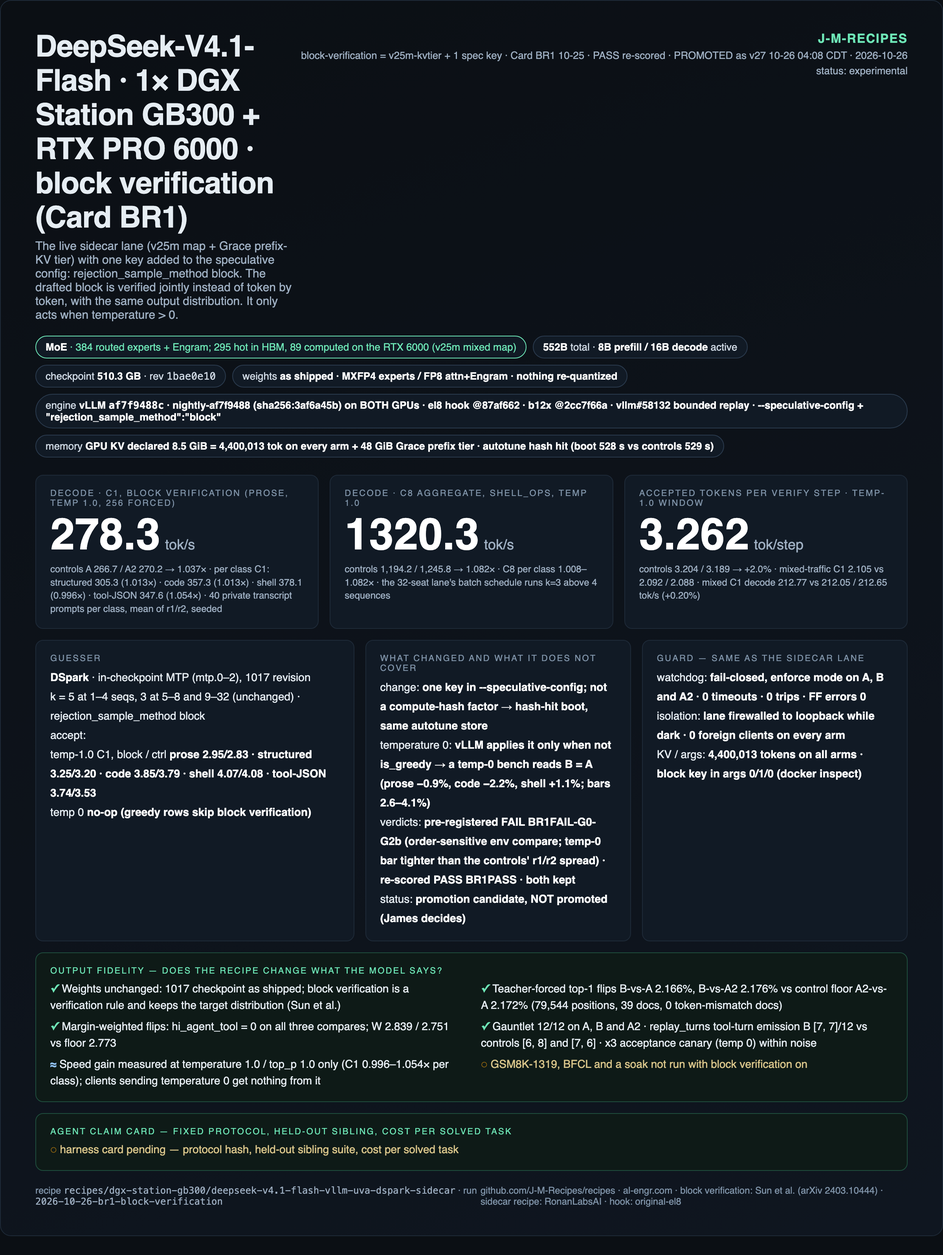
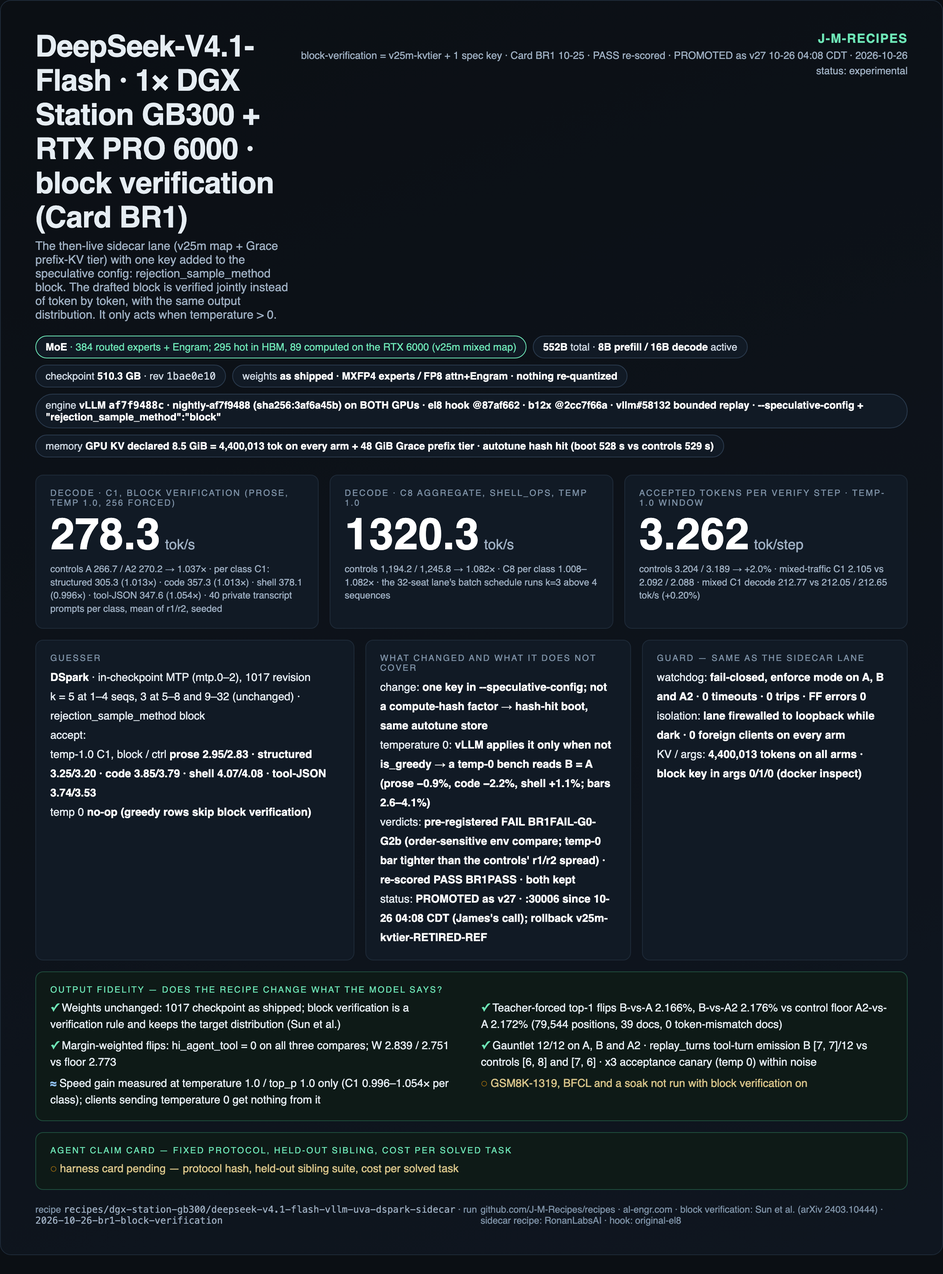
deepseek-v4.1-flash sidecar: v27 (sidecar + kv-host-tier + block verification) presented as the serving release on :30006; GB300-only sibling pm note (block retired there, lane-specific limit); launcher SPEC_EXTRA; stale candidate/rollback/R2/soak claims corrected; cards re-rendered (#95)

diff --git a/recipes/dgx-station-gb300/deepseek-v4.1-flash-vllm-uva-dspark-sidecar/card.html b/recipes/dgx-station-gb300/deepseek-v4.1-flash-vllm-uva-dspark-sidecar/card.html
@@ -46,7 +46,7 @@
       <h1>DeepSeek-V4.1-Flash · 1× DGX Station GB300 + RTX PRO 6000 sidecar</h1>
       <div class="sub">The 89 cold experts per layer don&#x27;t live in Grace — they live on the second GPU in the chassis, and they are computed there. Full 1M context, 3× the C16 decode of Grace offload.</div>
     </div>
-    <div class="brand"><b>J-M-RECIPES</b><br>v27 = v25m-kvtier + block verification · promoted 10-26 04:08 CDT · live on :30006 · 2026-10-26<br>status: experimental</div>
+    <div class="brand"><b>J-M-RECIPES</b><br>v27 = sidecar + kv-host-tier + block verification · live on :30006 since 10-26 04:08 · 2026-10-26<br>status: experimental</div>
   </div>
   <div class="pills">
 <span class="pill type"><b>MoE</b> · 384 routed experts + Engram; 295 hot in HBM, 89 computed on the RTX 6000</span>
@@ -57,22 +57,25 @@
 <span class="pill">memory <b>206.6 GiB hot experts in HBM + 66.2 GiB cold experts on the card · KV declared 8.5 GiB = 4.40M tok (4.2× one 1M request; 4×1M co-resident at 75%) · host carries Engram only</b></span>
   </div>
   <div class="grid">
-<div class="box"><div class="lbl">Decode · C1, mean of 2 boots (real text, 8.2K in / 1,024 out)</div><div class="hero">279.5<small>tok/s</small></div><div class="note">276.8 / 282.2 on two independent boots; incumbent 187.5 · acceptance 2.96 tok/step, TTFT 0.19 s · per-class C1: prose 295 · structured 299 · code 409 · shell 414 · tool-JSON 367</div></div>
+<div class="box"><div class="lbl">Decode · C1, mean of 2 boots (real text, 8.2K in / 1,024 out)</div><div class="hero">279.5<small>tok/s</small></div><div class="note">v25 base launch, 10-22 · 276.8 / 282.2 on two independent boots; incumbent 187.5 · acceptance 2.96 tok/step, TTFT 0.19 s · per-class C1: prose 295 · structured 299 · code 409 · shell 414 · tool-JSON 367</div></div>
 <div class="box"><div class="lbl">Decode · C16 aggregate</div><div class="hero">1576.9<small>tok/s</small></div><div class="note">1,581.0 / 1,572.8 vs incumbent 524.5 · C32 2,400.3 vs 936.9 · 32 seats, k=3 band above 8 sequences</div></div>
 <div class="box"><div class="lbl">Prompt reading · cold 64K prefill</div><div class="hero">50119<small>tok/s</small></div><div class="note">incumbent 23,439 tok/s same window · 1M-token prompt: first token 33.2 s (incumbent 81.4 s) · 128K cold prefill 2.61 s</div></div>
   </div>
   <div class="row2">
-<div class="box"><div class="lbl">Guesser</div><div class="kv"><b>DSpark</b> · in-checkpoint MTP (mtp.0–2), 1017 revision<br>k = 5 at 1–4 seqs, 3 at 5–8 and 9–32 (batch-size schedule)<br><span class="acc">accept: <span>real-text C1 <b>2.96</b></span> <span>temp-1.0 C1 per class <b>prose 2.85 · structured 3.03 · code 3.83 · shell 3.98 · tool-JSON 3.63 (blend 3.20)</b></span> <span>block verif. <b>+2.0%</b></span> <span>k=9 <b>−8…−21% speed</b></span></span></div></div>
+<div class="box"><div class="lbl">Guesser</div><div class="kv"><b>DSpark</b> · in-checkpoint MTP (mtp.0–2), 1017 revision<br>k = 5 at 1–4 seqs, 3 at 5–8 and 9–32 (batch-size schedule) · probabilistic drafting · v27: block verification<br><span class="acc">accept: <span>real-text C1 <b>2.96</b></span> <span>temp-1.0 C1 per class <b>prose 2.85 · structured 3.03 · code 3.83 · shell 3.98 · tool-JSON 3.63 (blend 3.20)</b></span> <span>block verif. (v27) <b>+2.0% tok/step</b></span> <span>k=9 <b>−8…−21% speed</b></span></span></div></div>
 <div class="box"><div class="lbl">Guard — a missed sidecar deadline is wrong output, not a slow one</div><div class="kv">bring-up cosine gate: <b>min 0.99906 · 40/40 layers · ≥32 cold rows · 0 timeouts</b><br>spin limit: <b>VLLM_EXP_PEER_SPINS=2e9 → a dead sidecar hangs instead of dropping the cold add</b><br>watchdog: <b>fail-closed, trips in ~3 s on timeout / stall / dead sidecar; fault-tested (rollback bound 260 s)</b><br>live counters (3 h): <b>4.26M sidecar calls · 0 timeouts · 0.0048 ms wait per call · 0 trips</b></div></div>
 <div class="box"><div class="lbl">Quality and cost of the win</div><div class="kv">SC2 gates: <b>12/12 PASS · per-class decode 20/20 cells within −3%</b><br>BFCL: <b>dev 92.67 vs 92.33 · held-out 77.65 vs 77.88 (our grader)</b><br>GSM8K-1319 / needle / gauntlet: <b>96.97 = incumbent · 500/500 exact · 12/12</b><br>power: <b>module p99 1,353 W in 64K prefill, sw_power_cap 89.5% of samples (incumbent 65%) — measured under that throttling</b></div></div>
   </div>
   <div class="fid"><div class="lbl">Output fidelity — does the recipe change what the model says?</div>
     <ul>
 <li class="ok">Weights unchanged: 1017 checkpoint as shipped, 0 re-quantized bits; the sidecar reads the same shards, it does not copy or re-encode them</li>
-<li class="ok">Sidecar path verified against the GB300&#x27;s own cold-expert computation: min cos 0.99906 over 1,341 checks with ≥32 cold rows, all 40 layers, 0 timeouts</li>
+<li class="ok">v25 static map: sidecar path verified against the GB300&#x27;s own cold-expert computation: min cos 0.99906 over 1,341 checks with ≥32 cold rows, all 40 layers, 0 timeouts</li>
 <li class="ok">Speculation is target-verified (DSpark drafts are accepted by the full model at T=0)</li>
 <li class="ok">Teacher-forced margin-weighted flips vs the same-map control inside the control floor (W=3.014 vs floor 1.866); BFCL dev +0.34 pt, held-out −0.23 pt</li>
 <li class="ok">GSM8K-1319 96.97% identical to the incumbent (1,279/1,319); 500/500 exact needle; gauntlet 12/12; image request reads the picture</li>
+<li class="fail">v27 runs the v25m map, which missed that bar: min cos 0.99811 vs 0.999 (1 of 1,439 checks, layer 39; Card GV, 9 of 10 other gates pass); the pre-registered R2 re-judge has not run</li>
+<li class="ok">v27 block verification (Card BR1): TF top-1 flips 2.166% / 2.176% vs control floor 2.172%, gauntlet 12/12; re-verified after each of the 5 restores on 10-26 (KV 4,400,013, block in args, watchdog PPID 1)</li>
+<li class="meas">Block verification is lane-specific: a null on the GB300-only sibling with a greedy drafter (BR3, 0.999× tok/step); on top of probabilistic drafting it tripped a parity gate in BR4, BR5 and BR6 there and was retired. This drafter was already probabilistic</li>
 <li class="ok">One public bench we ran: fraserprice&#x27;s BRRR codegen harness ported stdlib — 2K/C1 466 tok/s at 5.13 tok/step vs their 4× RTX PRO 6000 703; 64K prefill 46,246 vs 17,852 tok/s</li>
 <li class="meas">One temp-0 GSM8K item ran to the token cap on this image (0/32 at a 32K cap on repeat) — attributed to the image&#x27;s effort-75 tail, not the sidecar</li>
     </ul>

diff --git a/recipes/dgx-station-gb300/deepseek-v4.1-flash-vllm-uva-dspark-sidecar/card-br1.html b/recipes/dgx-station-gb300/deepseek-v4.1-flash-vllm-uva-dspark-sidecar/card-br1.html
@@ -44,7 +44,7 @@
   <div class="top">
     <div>
       <h1>DeepSeek-V4.1-Flash · 1× DGX Station GB300 + RTX PRO 6000 · block verification (Card BR1)</h1>
-      <div class="sub">The live sidecar lane (v25m map + Grace prefix-KV tier) with one key added to the speculative config: rejection_sample_method block. The drafted block is verified jointly instead of token by token, with the same output distribution. It only acts when temperature &gt; 0.</div>
+      <div class="sub">The then-live sidecar lane (v25m map + Grace prefix-KV tier) with one key added to the speculative config: rejection_sample_method block. The drafted block is verified jointly instead of token by token, with the same output distribution. It only acts when temperature &gt; 0.</div>
     </div>
     <div class="brand"><b>J-M-RECIPES</b><br>block-verification = v25m-kvtier + 1 spec key · Card BR1 10-25 · PASS re-scored · PROMOTED as v27 10-26 04:08 CDT · 2026-10-26<br>status: experimental</div>
   </div>
@@ -63,7 +63,7 @@
   </div>
   <div class="row2">
 <div class="box"><div class="lbl">Guesser</div><div class="kv"><b>DSpark</b> · in-checkpoint MTP (mtp.0–2), 1017 revision<br>k = 5 at 1–4 seqs, 3 at 5–8 and 9–32 (unchanged) · rejection_sample_method block<br><span class="acc">accept: <span>temp-1.0 C1, block / ctrl <b>prose 2.95/2.83 · structured 3.25/3.20 · code 3.85/3.79 · shell 4.07/4.08 · tool-JSON 3.74/3.53</b></span> <span>temp 0 <b>no-op (greedy rows skip block verification)</b></span></span></div></div>
-<div class="box"><div class="lbl">What changed and what it does not cover</div><div class="kv">change: <b>one key in --speculative-config; not a compute-hash factor → hash-hit boot, same autotune store</b><br>temperature 0: <b>vLLM applies it only when not is_greedy → a temp-0 bench reads B = A (prose −0.9%, code −2.2%, shell +1.1%; bars 2.6–4.1%)</b><br>verdicts: <b>pre-registered FAIL BR1FAIL-G0-G2b (order-sensitive env compare; temp-0 bar tighter than the controls&#x27; r1/r2 spread) · re-scored PASS BR1PASS · both kept</b><br>status: <b>promotion candidate, NOT promoted (James decides)</b></div></div>
+<div class="box"><div class="lbl">What changed and what it does not cover</div><div class="kv">change: <b>one key in --speculative-config; not a compute-hash factor → hash-hit boot, same autotune store</b><br>temperature 0: <b>vLLM applies it only when not is_greedy → a temp-0 bench reads B = A (prose −0.9%, code −2.2%, shell +1.1%; bars 2.6–4.1%)</b><br>verdicts: <b>pre-registered FAIL BR1FAIL-G0-G2b (order-sensitive env compare; temp-0 bar tighter than the controls&#x27; r1/r2 spread) · re-scored PASS BR1PASS · both kept</b><br>status: <b>PROMOTED as v27 · :30006 since 10-26 04:08 CDT (James&#x27;s call); rollback v25m-kvtier-RETIRED-REF</b></div></div>
 <div class="box"><div class="lbl">Guard — same as the sidecar lane</div><div class="kv">watchdog: <b>fail-closed, enforce mode on A, B and A2 · 0 timeouts · 0 trips · FF errors 0</b><br>isolation: <b>lane firewalled to loopback while dark · 0 foreign clients on every arm</b><br>KV / args: <b>4,400,013 tokens on all arms · block key in args 0/1/0 (docker inspect)</b></div></div>
   </div>
   <div class="fid"><div class="lbl">Output fidelity — does the recipe change what the model says?</div>

diff --git a/recipes/dgx-station-gb300/deepseek-v4.1-flash-vllm-uva-dspark-sidecar/card-v25m.html b/recipes/dgx-station-gb300/deepseek-v4.1-flash-vllm-uva-dspark-sidecar/card-v25m.html
@@ -46,7 +46,7 @@
       <h1>DeepSeek-V4.1-Flash · 1× DGX Station GB300 + RTX PRO 6000 · mixed-traffic map (v25m)</h1>
       <div class="sub">The v25 sidecar lane with one file changed: the 295-hot / 89-cold expert split refit from live decode counts on JP/DE prose + agent traffic. No code change; same image, hook, kernels, flags, KV.</div>
     </div>
-    <div class="brand"><b>J-M-RECIPES</b><br>v25m = v25 + rowmap-mixed-ar-v1.json · gates re-run 2026-10-24 · 48 h soak cancelled 10-24 · live since 10-24 with the KV tier · 2026-10-26<br>status: experimental</div>
+    <div class="brand"><b>J-M-RECIPES</b><br>v25m = v25 + rowmap-mixed-ar-v1.json · gates 10-24 · served 10-24→10-26 with the KV tier · base of v27 · 2026-10-26<br>status: experimental</div>
   </div>
   <div class="pills">
 <span class="pill type"><b>MoE</b> · 384 routed experts + Engram; 295 hot in HBM, 89 computed on the RTX 6000 · map refit: 42.5 experts/layer moved</span>
@@ -70,7 +70,7 @@
     <ul>
 <li class="ok">Weights unchanged: 1017 checkpoint as shipped; only which GPU computes each expert changed</li>
 <li class="fail">FAILED the pre-registered bring-up cosine gate: min cos 0.99811 vs bar 0.999 — 1 of 1,439 gated checks (layer 39, T=128, cold experts 7.9% of the output norm); p1 0.99968 vs v25 static 0.99970, v25 static min 0.99906. The same gate rejected the 285/99 map (0.99885)</li>
-<li class="meas">Layer 39 on v25&#x27;s exact static split still misses (0.99831; worst check at ~0 cold share = noise). That does not clear v25m, whose failing check had cold share 7.9%. Re-judged Mon 10-26 under the pre-registered gate R2</li>
+<li class="meas">Layer 39 on v25&#x27;s exact static split still misses (0.99831; worst check at ~0 cold share = noise). That does not clear v25m, whose failing check had cold share 7.9%. The pre-registered R2 re-judge has not run (Card GS was cancelled with the soak)</li>
 <li class="ok">Teacher-forced margin-weighted flips GATE PASS vs the v23 reference (W 2.84, bar 3.08) and vs v25 static (W 2.55, bar 2.90)</li>
 <li class="ok">GSM8K-1319 96.82% vs v25 96.97% (−0.15 pt, McNemar p 0.73) · needle 500/500 exact · gauntlet 12/12 · reasoning_effort codes identical · image request reads the picture</li>
 <li class="ok">Per-turn tool emission 8/12 + 8/12 tool turns (bar ≥ 4), text-turn spurious 4 / 5 (bar ≤ 5), 0 errors</li>

diff --git a/recipes/dgx-station-gb300/deepseek-v4.1-flash-vllm-uva-dspark-sidecar/README.md b/recipes/dgx-station-gb300/deepseek-v4.1-flash-vllm-uva-dspark-sidecar/README.md
@@ -6,7 +6,9 @@ leaves a serial ~350 GB/s read on the critical path of every decode step. This r
 keep the hot experts in HBM and move the cold ones to the **RTX PRO 6000 Max-Q in the same chassis, where
 they are computed**, not read. Only activations cross PCIe.
 
-Same box, same checkpoint, same harness, bracketed controls in one window:
+Same box, same checkpoint, same harness, bracketed controls in one window (2026-10-22, measured on the v25 base
+launch; the serving release v27 adds the v25m map, a Grace prefix-KV tier and block verification, whose deltas are
+Cards GV, KV3 and BR1 below):
 
 | | GB300 only (sibling recipe, v23) | GB300 + RTX 6000 sidecar (this recipe) |
 |---|--:|--:|
@@ -32,26 +34,56 @@ sibling is the one that needs nothing but the GB300.
 > the 295/89 map, the agreement gate run on real prompts, the ack-before-bookkeeping sidecar fix, the
 > fail-closed watchdog and the bracketed measurement discipline. See [Credits](#credits).
 
-> **Status, 2026-10-26 04:08 CDT (recipe stays experimental): PROMOTED v27 = block verification.** Lane `:30006`
-> on the reference box now serves `dsv41-vllm-1017-v27-block-BOUND-REF` + `-rtx` with the fail-stop watchdog in
-> enforce mode: the v25m-kvtier launch below plus `"rejection_sample_method":"block"` (Card BR1). Hash-hit boot
-> 528 s, KV 4,400,013 tokens, smoke (`reasoning_effort: low`, tool call) and consumer checks (Hermes one-shot with
-> tool calls, Forge guest gateway `deepseek-v4.1-flash`) passed; rollback pair `dsv41-vllm-1017-v25m-kvtier-RETIRED-REF`
-> (+`-rtx`) stopped-and-kept; launcher `launch_br1.sh` (= `launch_sidecar.sh` + `SPEC_EXTRA`). From 2026-10-24 23:16
-> to 2026-10-26 03:58 CDT the lane served `dsv41-vllm-1017-v25m-kvtier` + `-rtx` (the same launch without the key),
-> i.e. the v25m variant (`ROWMAP=rowmap-mixed-ar-v1.json`) with the kv-host-tier flags
-> (`EXTRA="--kv-cache-memory 9126805504 --kv-offloading-size 48 --kv-offloading-backend native"`), the production
-> spec config `{"method":"dspark","num_speculative_tokens":5,"num_speculative_tokens_per_batch_size":[[1,4,5],[5,8,3],[9,32,3]],"draft_sample_method":"probabilistic"}`,
-> image nightly-af7f9488 (`sha256:3af6a45b…`) and a KV pool of 4,400,013 tokens. *(Corrected 2026-10-26: an earlier
-> banner said the lane served the GB300-only sibling's v26 config. That was true only from 2026-10-24 ~21:30 to
-> 23:16 CDT.)* The adaptive-residency campaign has ended, and the v25m 48 h soak was cancelled on 2026-10-24.
-> Block verification (Card BR1, below) passed and was **promoted on 2026-10-26 04:08 CDT (v27)**.
+> **Status, 2026-10-26 16:45 CDT (recipe stays experimental): v27 is the serving release.** Lane `:30006` on the
+> reference box serves **v27 = `dsv41-vllm-1017-v27-block-BOUND-REF` + `-rtx`**: the v25m-kvtier sidecar launch
+> (`ROWMAP=rowmap-mixed-ar-v1.json`,
+> `EXTRA="--kv-cache-memory 9126805504 --kv-offloading-size 48 --kv-offloading-backend native"`) plus one spec key,
+> `{"method":"dspark","num_speculative_tokens":5,"num_speculative_tokens_per_batch_size":[[1,4,5],[5,8,3],[9,32,3]],"draft_sample_method":"probabilistic","rejection_sample_method":"block"}`,
+> image nightly-af7f9488 (`sha256:3af6a45b…`), KV pool 4,400,013 tokens, fail-stop watchdog in enforce mode. It was
+> promoted on 2026-10-26 04:08 CDT on Card BR1 (PASS re-scored, James's call): hash-hit boot 528 s, smoke
+> (`reasoning_effort: low`, tool call) and consumer checks (Hermes one-shot with tool calls, Forge guest gateway
+> `deepseek-v4.1-flash`) passed; promotion log `results/2026-10-26-br1-block-verification/raw/promote-v27.log`.
+> Rollback pair `dsv41-vllm-1017-v25m-kvtier-RETIRED-REF` (+`-rtx`, v27 without the block key), stopped-and-kept.
+> During the day the same box ran four GB300-only sibling cards and one park window. v27 was stopped for each and
+> restored after each (after BR3 06:49, BR4 10:28, park 11:06, BR5 13:52 and BR6 16:36 CDT). Every restore was
+> re-verified: KV 4,400,013, the block key in the args, and the watchdog re-armed with PPID 1. The Forge guest
+> gateway re-listed the lane at 16:45 CDT. Earlier history: from 2026-10-24 23:16 to 2026-10-26 03:58 CDT the lane
+> served `dsv41-vllm-1017-v25m-kvtier` + `-rtx` (the same launch without the key). *(Corrected 2026-10-26: an
+> earlier banner said the lane served the GB300-only sibling's v26 config. That was true only from 2026-10-24
+> ~21:30 to 23:16 CDT.)* The adaptive-residency campaign has ended, and the v25m 48 h soak was cancelled on
+> 2026-10-24, so no 48 h soak has run on v27 either.
 > **Cross-links:** GB300-only sibling
 > [`../deepseek-v4.1-flash-vllm-uva-dspark`](../deepseek-v4.1-flash-vllm-uva-dspark/README.md). Blogs:
 > [GB300 + sidecar vs 4× RTX PRO 6000 (BRRR)](https://al-engr.com/gb300-vs-4x-rtx6000-dsv41-flash-brrr.html),
 > [Adaptive Residency Part 3, the seed map](https://al-engr.com/gb300-adaptive-residency-seed-map.html) and
 > [Part 1, with its convergence correction](https://al-engr.com/gb300-adaptive-expert-residency.html). Peer recipe:
 > [fraserprice/DeepSeek-4.1-Flash-1017-BRRR](https://huggingface.co/fraserprice/DeepSeek-4.1-Flash-1017-BRRR).
+
+## 2026-10-26 (pm): what happened on the GB300-only sibling, and why it does not change this recipe
+
+The GB300-only sibling ([`../deepseek-v4.1-flash-vllm-uva-dspark`](../deepseek-v4.1-flash-vllm-uva-dspark/README.md)) tried the same key on its own lane: no sidecar, Grace
+offload, a **greedy** drafter and the k schedule `[[1,8,5],[9,24,1]]`.
+
+- **Block verification alone was a null there** (Card BR3,
+  [`results/2026-10-26-br3-block-verification-null/`](../deepseek-v4.1-flash-vllm-uva-dspark/results/2026-10-26-br3-block-verification-null/)): tokens per verify step 0.999× the control. Block
+  verification works on the draft distribution. A greedy drafter gives it a point mass, and it degenerates to
+  standard verification.
+- **Probabilistic drafting was the lever** (Card BR4,
+  [`results/2026-10-26-br4-probabilistic-drafting/`](../deepseek-v4.1-flash-vllm-uva-dspark/results/2026-10-26-br4-probabilistic-drafting/)): +10.3% tokens per step at temperature 1.0. It is now
+  that recipe's reference, `v28-prob`.
+- **Block on top of probabilistic drafting never passed a bracket cleanly in three tries:** BR4's PB arm, BR5
+  ([`results/2026-10-26-br5-block-rebracket/`](../deepseek-v4.1-flash-vllm-uva-dspark/results/2026-10-26-br5-block-rebracket/)) and BR6 with a redesigned G6
+  ([`results/2026-10-26-br6-block-g6-redesign/`](../deepseek-v4.1-flash-vllm-uva-dspark/results/2026-10-26-br6-block-g6-redesign/), added by a parallel PR). Its speed and teacher-forced gates
+  passed, but a temperature-0 parity gate tripped each time (shell_ops in BR4's G2b; tool-turn emission in G6 on
+  BR4 and BR5; BR6 in its own bundle). The sibling retired the key for cause.
+
+**Why this lane is different:** its drafter was already probabilistic. `"draft_sample_method":"probabilistic"` has
+been in this launch since v25, so block verification had a distribution to work on. Card BR1 passed here: +2.0%
+tokens per step, no class lost beyond noise (C1 0.996–1.054×, C8 1.008–1.082×), TF flips at the control floor,
+gauntlet 12/12 and replay_turns inside the controls. The pass is the re-score; the pre-registered FAIL was two
+instrument defects, and both verdicts are kept (see below). v27 stays the serving release. None of the sibling's
+cards were measured on this lane. Write-up with the addendum:
+[GB300 + sidecar vs 4× RTX PRO 6000](https://al-engr.com/gb300-vs-4x-rtx6000-dsv41-flash-brrr.html).
 
 ## 2026-10-26: block verification (Card BR1) — PASS, PROMOTED as v27; k ladder (Card BR2) — k=9 loses; peer harness side-by-side
 
@@ -66,7 +98,8 @@ Block verification ([Sun et al.](https://arxiv.org/abs/2403.10444)) verifies the
 token by token. The output distribution is the same. **Result: PASS (re-scored); promoted to `:30006` as v27 on
 2026-10-26 04:08 CDT** (James's call; promotion log `results/2026-10-26-br1-block-verification/raw/promote-v27.log`).
 
-Bracketed A (control) → B (block) → A2 (control) on the production lane config, 2026-10-25 19:33–21:35 CDT.
+Bracketed A (control) → B (block) → A2 (control) on the then-production v25m-kvtier lane config, 2026-10-25
+19:33–21:35 CDT.
 All three boots were autotune hash hits (528–529 s; `rejection_sample_method` is not a compute-hash factor). Every
 arm had KV 4,400,013, and the block key appeared in the args on B only (0/1/0, read from `docker inspect`). Every
 arm read 0 foreign clients (the lane was firewalled to loopback while dark), 0 sidecar timeouts, 0 watchdog trips
@@ -100,7 +133,9 @@ class and 256 forced tokens, r1/r2. The stock temperature-0 window was kept as a
 ### Card BR2 — k ladder (A → K9 → A2) + the peer harness on every arm
 
 K9 = block verification + `num_speculative_tokens 9` + `[[1,4,9],[5,8,3],[9,32,3]]`. The controls A and A2 are the
-production config, **without** block verification, so the K9 ratios measure block + k=9 against production.
+v25m-kvtier config, which was production when BR2 ran, **without** block verification. The K9 ratios therefore
+measure block + k=9 against that config, not against v27. *(Corrected 2026-10-26: this said "the production
+config"; production is now v27, which has block verification on.)*
 Run 2026-10-25 21:36–23:24 CDT; receipts:
 [`results/2026-10-26-br2-k-ladder-peerbench/`](results/2026-10-26-br2-k-ladder-peerbench/).
 
@@ -168,7 +203,7 @@ logged). Our server omits `prompt_tokens_details`, so the cache-bust check reads
 **Theirs** is the "Thinking off" table published on the BRRR model card, copied and not re-run by us: 4× RTX PRO
 6000 Blackwell Max-Q at 325 W, Threadripper 9960X, 64 GB RAM, Samsung 990 PRO, adaptive verification off, DSpark 7
 draft tokens, 5 rounds. **Ours** is Card BR2 arm A: one GB300 plus one RTX PRO 6000 Max-Q sidecar, this lane's
-production config, DSpark k=5 at C1–C4 and k=3 above batch 4 (hence our lower C8/C16 accept), 2 rounds.
+v25m-kvtier config (production until v27; no block verification), DSpark k=5 at C1–C4 and k=3 above batch 4 (hence our lower C8/C16 accept), 2 rounds.
 [`raw/A/peerbench-BR2-A.md`](results/2026-10-26-br2-k-ladder-peerbench/raw/A/peerbench-BR2-A.md). Arm A2 agrees
 with A within 0–2.5% on TG in all 12 cells. Their box wins single-stream decode by 1.45–1.51×. Ours wins prefill
 2.3–2.8× at 16K/64K, TTFT at every cell, and TG at 64K/C16. At C4–C16 the two are mostly level.
@@ -255,7 +290,9 @@ collected on ~100k JP/DE and ~105k agent/tool tokens during the
 | GB300 stall on the RTX, JP/DE / agent | 11.8 % / 0.5 % | **0.5 %** / 0.4 % |
 
 - **What it buys:** single-stream off-domain prose, +11–15 %. At C4 the GB300's own step time already hides the RTX work.
-- **Fidelity (Card GV, 2026-10-24): 9 of 10 gates pass, the bring-up cosine gate fails.** Greedy parity cannot gate this lane (the same map self-agrees 14/50), so the gates are SC2's. Teacher-forced flips PASS against both v23 and v25 static; GSM8K-1319 96.82 vs 96.97; BFCL dev/held-out **identical** to v25 (556/600, 1018/1311); gauntlet 12/12; needle 500/500; tool emission, effort and image probes pass; 0 sidecar timeouts. **The bring-up cosine gate misses: min cos 0.99811 vs the 0.999 bar.** That is one of 1,439 gated checks, at layer 39 (the worst layer on every map), and the rest of the distribution matches v25 static (p1 0.99968 vs 0.99970). The same gate rejected the 285/99 map, so the bar stays where it is and v25m stays **experimental**. **Follow-up (Card GV2):** restoring layer 39 to v25's exact static split did not fix it (min 0.99831; worst check again layer 39, where the cold experts carried ~0 % of the output norm); see [`results/2026-10-24-gv2-l39-static/`](results/2026-10-24-gv2-l39-static/). **Correction (2026-10-24 08:15):** an earlier version said the v25m miss was check noise, not the map. That overreached. GV2 shows layer 39's checks are noisy when the cold experts carry ~0 of the output, but v25m's own failing check had them at 7.9 %, so GV2 does not clear v25m. The open question goes to a new, pre-registered gate (R2, below). **Cosine gate R2, registered 2026-10-24 before re-judging** ([`results/2026-10-26-gs-cosine-r2/`](results/2026-10-26-gs-cosine-r2/)): judge the sidecar's error as a fraction of the whole layer output, e = rel_diff × cold share, against a bar of 1.5 × the worst e from three v25-static check boots (the SC0 boot plus two more after the soak, 2026-10-26). Every archived boot is re-judged and the table published whatever it says. Receipts: [`results/2026-10-24-gv-v25m-gates/`](results/2026-10-24-gv-v25m-gates/).
+- **Fidelity (Card GV, 2026-10-24): 9 of 10 gates pass, the bring-up cosine gate fails.** Greedy parity cannot gate this lane (the same map self-agrees 14/50), so the gates are SC2's. Teacher-forced flips PASS against both v23 and v25 static; GSM8K-1319 96.82 vs 96.97; BFCL dev/held-out **identical** to v25 (556/600, 1018/1311); gauntlet 12/12; needle 500/500; tool emission, effort and image probes pass; 0 sidecar timeouts. **The bring-up cosine gate misses: min cos 0.99811 vs the 0.999 bar.** That is one of 1,439 gated checks, at layer 39 (the worst layer on every map), and the rest of the distribution matches v25 static (p1 0.99968 vs 0.99970). The same gate rejected the 285/99 map, so the bar stays where it is and v25m stays **experimental**. **Follow-up (Card GV2):** restoring layer 39 to v25's exact static split did not fix it (min 0.99831; worst check again layer 39, where the cold experts carried ~0 % of the output norm); see [`results/2026-10-24-gv2-l39-static/`](results/2026-10-24-gv2-l39-static/). **Correction (2026-10-24 08:15):** an earlier version said the v25m miss was check noise, not the map. That overreached. GV2 shows layer 39's checks are noisy when the cold experts carry ~0 of the output, but v25m's own failing check had them at 7.9 %, so GV2 does not clear v25m. The open question goes to a new, pre-registered gate (R2, below). **Cosine gate R2, registered 2026-10-24 before re-judging** ([`results/2026-10-26-gs-cosine-r2/`](results/2026-10-26-gs-cosine-r2/)): judge the sidecar's error as a fraction of the whole layer output, e = rel_diff × cold share, against a bar of 1.5 × the worst e from three v25-static check boots (the SC0 boot plus two more after the soak, 2026-10-26). Every archived boot is re-judged and the table published whatever it says. *(Corrected 2026-10-26: the re-judge
+has not run. Card GS was cancelled with the soak on 2026-10-24, and v27 serves on this map with the miss open; see
+Known limits.)* Receipts: [`results/2026-10-24-gv-v25m-gates/`](results/2026-10-24-gv-v25m-gates/).
 - **Same-instrument speed vs v25:** real-text English C1 273.2 vs 279.2 (−2 %), knee C8 887 vs 934 (−5 %), C16 1,411 vs 1,409. The mixed map trades a little English-only speed for +15 % on JP/DE.
 - **Soak:** 48 h on v25m, restarted after Card GV2 at 07:12 Sat 10-24 → 07:12 Mon 10-26 CDT, fail-stop watchdog armed. Card GS (static check boots + R2 re-judge) runs right after. **Cancelled 2026-10-24 by James** (soak and Card GS); v25m was never soak-cleared.
 - **Card:** [`card-v25m.png`](card-v25m.png) (base v25 card: [`card.png`](card.png)).
@@ -273,6 +310,11 @@ full **1,048,576-token** context, on:
 * **RTX PRO 6000 Max-Q** — original-el8's peer tier-2 server (b12x kernels) holding the other **89 experts
   per layer** and computing their contribution on demand. The two processes share one `/dev/shm` buffer with
   a device-side sequence counter: the GB300 publishes a step, the card answers, the GB300 adds the result.
+
+**As served (v27, since 2026-10-26 04:08 CDT):** the base launch plus the v25m mixed map
+(`rowmap-mixed-ar-v1.json`, still 295 hot / 89 cold per layer), the 48 GiB Grace prefix-KV tier, and
+`"rejection_sample_method":"block"` in the spec config. The base launch (static map, no tier, sequential
+verification) is what the 2026-10-22 headline numbers were measured on.
 
 Why it is faster: the cold-expert contribution stops being a serial C2C read and becomes a parallel GEMM on a
 second GPU. Measured step time on this chassis falls from ~14.6 ms (Grace offload, C1) to ~10.6 ms, which is
@@ -340,10 +382,21 @@ bash scripts/launch-sidecar.sh sidecar
 EXTRA="--kv-cache-memory 9126805504" bash scripts/launch-sidecar.sh server
 ```
 
+**The serving release, v27** — the base launch plus the v25m map, the kv-host-tier flags and block verification.
+`SPEC_EXTRA` is spliced into the `--speculative-config` JSON before its closing brace. It defaults to empty, which
+gives the base launch's args byte for byte.
+
+```bash
+export NAME=dsv41-vllm-1017-v27-block-BOUND-REF ROWMAP=rowmap-mixed-ar-v1.json
+bash scripts/launch-sidecar.sh sidecar
+EXTRA="--kv-cache-memory 9126805504 --kv-offloading-size 48 --kv-offloading-backend native" \
+SPEC_EXTRA=',"rejection_sample_method":"block"' bash scripts/launch-sidecar.sh server
+```
+
 Defaults you may need: `M3_DIR` (`~/dsv41/m3` — hook checkout, overlay tree, logs, `local/peer_server2_local.py`),
 `B12X_DIR` (`~/dsv41/b12x`), `MODEL_DIR`, `CACHE_DIR` (`~/dsv41/cache-a`), `ROWMAP`
 (`rowmap-static-v1.json` = 295/89), `NAME`, `SEQS` (32), `GPU_UTIL` (0.97), `MAXLEN` (1048576), `PORT` (30006),
-`PEER_SPINS` (2e9), `REPLAY_OVERLAY` (1), `EXTRA` (empty). `bash scripts/launch-sidecar.sh stop` stops
+`PEER_SPINS` (2e9), `REPLAY_OVERLAY` (1), `EXTRA` (empty), `SPEC_EXTRA` (empty). `bash scripts/launch-sidecar.sh stop` stops
 server-then-sidecar and keeps both containers.
 
 **`EXTRA` carries the KV size and defaults to empty.** Without it the pool is whatever util 0.97 leaves after
@@ -384,7 +437,8 @@ bash scripts/soak_check.sh <ssh-host> "$NAME"     # one health sample from anoth
 | output quality | teacher-forced flips vs a same-map floor, BFCL dev+held-out, GSM8K-1319, 500-needle, gauntlet, reasoning-effort vocabulary, one image request | SC2's 12 pre-registered gates |
 | drafter | per-class decode wall-clock, 20 cells × {C1, C8} | no cell worse than −3% vs both controls |
 | speed | bracketed ladders with a control on each side | knee C1 ≥ 198, knee C16 ≥ 974, sidecar C16 ≥ Grace-only +3% |
-| soak | 48 h, sampled every 5 min — restarted with the KV change: 2026-10-22 18:52 → 2026-10-24 18:52 CDT | no timeout, no trip, no stall |
+| soak | 48 h, sampled every 5 min — restarted with the KV change: 2026-10-22 18:52 → 2026-10-24 18:52 CDT. *(Corrected 2026-10-26: that window was cut at ~25 h and the v25m window was cancelled; no 48 h soak has completed on any sidecar config, v27 included.)* | no timeout, no trip, no stall |
+| v27 serving release | boot log KV line 4,400,013; `docker inspect` args contain `"rejection_sample_method":"block"`; watchdog in enforce mode with PPID 1, `trip=null` | checked at promotion (2026-10-26 04:08) and after each of the day's five restores |
 | kv-host-tier (variant) | boot log `Creating v1 connector with name: OffloadingConnector` + `Created mmap file /dev/shm/vllm_offload_….mmap (51.54 GB)`, GPU KV line still 4,400,013; evict-replay probe in `results/2026-10-24-kv3-host-prefix-tier/scripts/kv3_cells.py` (needs dev mode, test boots only) | host-tier hit + load, identical output; Card KV3's 10 gates |
 
 Nothing here is promoted on throughput alone: the cosine gate and the 0-timeout soak are pass/fail, and a
@@ -392,12 +446,18 @@ timeout is treated as a correctness bug rather than a slow request.
 
 ## Results
 
+### v27 = the serving release (promoted 2026-10-26 04:08 CDT)
+
+v27's measured delta over v25m-kvtier is Card BR1 (below). The promoted container got smoke, consumer and
+restore checks, not a new speed bracket. The headline table at the top was measured on the v25 base launch on
+2026-10-22.
+
 ### Card BR2: k ladder + peer harness (2026-10-25 21:36–23:24 CDT, `results/2026-10-26-br2-k-ladder-peerbench/`)
 
 Bundle: [`results/2026-10-26-br2-k-ladder-peerbench/`](results/2026-10-26-br2-k-ladder-peerbench/). It holds
 `throughput.csv` (per-class, mixed, tokens/step and every peerbench TG/PP cell per arm), `raw/per-position-curves.json`,
 `raw/<arm>/peerbench-BR2-<arm>.md/.json`, both verdicts and the scripts, including `peerbench.py`. K9 (block + k=9)
-reads 0.79–0.92× production at C1 and 0.88–0.93× at C8; k=5 stays. On the BRRR peer harness this lane reads 2K/C1 466
+reads 0.79–0.92× the v25m-kvtier controls at C1 and 0.88–0.93× at C8; k=5 stays. On the BRRR peer harness this lane reads 2K/C1 466
 tok/s TG p50 at 5.13 tok/step and 64K prefill 46,246 tok/s. The full 12-row side-by-side is in the 2026-10-26
 section above.
 
@@ -492,6 +552,14 @@ in prefill (2,062 incumbent); RTX p99 ≤ 194 W against its 300 W cap. Full tabl
   temperature 1.0 / top_p 1.0 with 40 private transcript prompts per class. Clients that send temperature 0 get
   nothing from it. **Promoted as v27 on 2026-10-26** (one key on the v25m-kvtier launch; rollback = the
   `-RETIRED-REF` pair).
+* **Block verification is lane-specific:** it needs probabilistic drafting, and it was not clean on the
+  Grace-only sibling (BR3 null at 0.999× tokens/step with a greedy drafter; with probabilistic drafting BR4 PB,
+  BR5 and BR6 each tripped a temperature-0 parity gate, and it was retired there). Do not copy this key to
+  another lane without its own bracket.
+* **v27 serves on the v25m map, which missed the bring-up cosine gate** (Card GV: min cos 0.99811 vs the 0.999
+  bar, 1 of 1,439 gated checks, at layer 39). It passed the other 9 gates, and it was put on `:30006` as
+  v25m-kvtier and then v27 with that miss open. The pre-registered R2 re-judge
+  (`results/2026-10-26-gs-cosine-r2/`) has not run. The 0.99906 pass in Verify is the v25 static map.
 * **k > 5 is a loss on real traffic with this drafter (Card BR2).** k=9 (with block verification) reads 0.81–0.92×
   at C1 per class and 0.79× on mixed traffic. The per-position curves show why: marginal acceptance drops from
   0.61–0.82 (positions 1–5) to 0.51–0.67 from position 7, and position-1 acceptance itself falls (prose .72 → .61).
@@ -552,9 +620,15 @@ in prefill (2,062 incumbent); RTX p99 ≤ 194 W against its 300 W cap. Full tabl
 pkill -f sidecar_watchdog.py
 # 2. server, then sidecar
 bash scripts/launch-sidecar.sh stop
-# 3. bring the previous lane back (kept, stopped, same box)
-docker start dsv41-vllm-1017-v23-pinexact-RETIRED-REF     # binds in ~260 s
+# 3. bring the previous lane back (kept, stopped, same box): v25m-kvtier = v27 without the block key
+docker start dsv41-vllm-1017-v25m-kvtier-RETIRED-REF-rtx   # sidecar first; wait for 'serving' in its log
+docker start dsv41-vllm-1017-v25m-kvtier-RETIRED-REF
 ```
+
+*(Corrected 2026-10-26: step 3 named `dsv41-vllm-1017-v23-pinexact-RETIRED-REF`, the Grace-offload v23 lane. Since
+the v27 promotion the previous lane is the v25m-kvtier pair above. v23 stays kept as the older fallback:
+`docker start dsv41-vllm-1017-v23-pinexact-RETIRED-REF` binds in ~260 s.)* On a fresh box, undo only block
+verification by relaunching the server step with `SPEC_EXTRA` empty.
 
 To undo only the KV change, start the kept util-0.97 pair instead (sidecar first, then server):
 `docker start dsv41-vllm-1017-v25-sidecar-kv4.9-KEPT-rtx && docker start dsv41-vllm-1017-v25-sidecar-kv4.9-KEPT`

diff --git a/recipes/dgx-station-gb300/deepseek-v4.1-flash-vllm-uva-dspark-sidecar/results/2026-10-26-br1-block-verification/README.md b/recipes/dgx-station-gb300/deepseek-v4.1-flash-vllm-uva-dspark-sidecar/results/2026-10-26-br1-block-verification/README.md
@@ -1,7 +1,7 @@
 # 2026-10-25 — Card BR1: DSpark block verification on the sidecar lane
 
 One key added to the production speculative config: `"rejection_sample_method":"block"` (block verification,
-Sun et al.). Everything else is the production lane as it serves on `:30006`: the v25m map
+Sun et al.). Everything else is the production lane as it served on `:30006` until the v27 promotion (2026-10-26 04:08 CDT): the v25m map
 (`ROWMAP=rowmap-mixed-ar-v1.json`), the kv-host-tier flags
 (`EXTRA="--kv-cache-memory 9126805504 --kv-offloading-size 48 --kv-offloading-backend native"`), image
 `vllm/vllm-openai@sha256:3af6a45b…` (nightly af7f9488), 32 seats, 1M context, DSpark k=5/3/3 by batch size,
@@ -68,7 +68,8 @@ Temperature-1.0 per-class decode tok/s (mean of r1/r2), B ÷ mean(A, A2):
 
 **Read:** block verification is a small, real gain at temperature > 0. The best C1 cells are +3.7% prose and
 +5.4% tool-JSON, with +2.0% tokens per step, and the teacher-forced flips sit at the control floor. It is a
-**promotion candidate, NOT promoted**; that decision is James's. It does nothing at temperature 0.
+~~**promotion candidate, NOT promoted**; that decision is James's.~~ *(Corrected 2026-10-26: James promoted it;
+`:30006` serves it as v27 since 2026-10-26 04:08 CDT, log `raw/promote-v27.log`.)* It does nothing at temperature 0.
 
 ## Files
 
